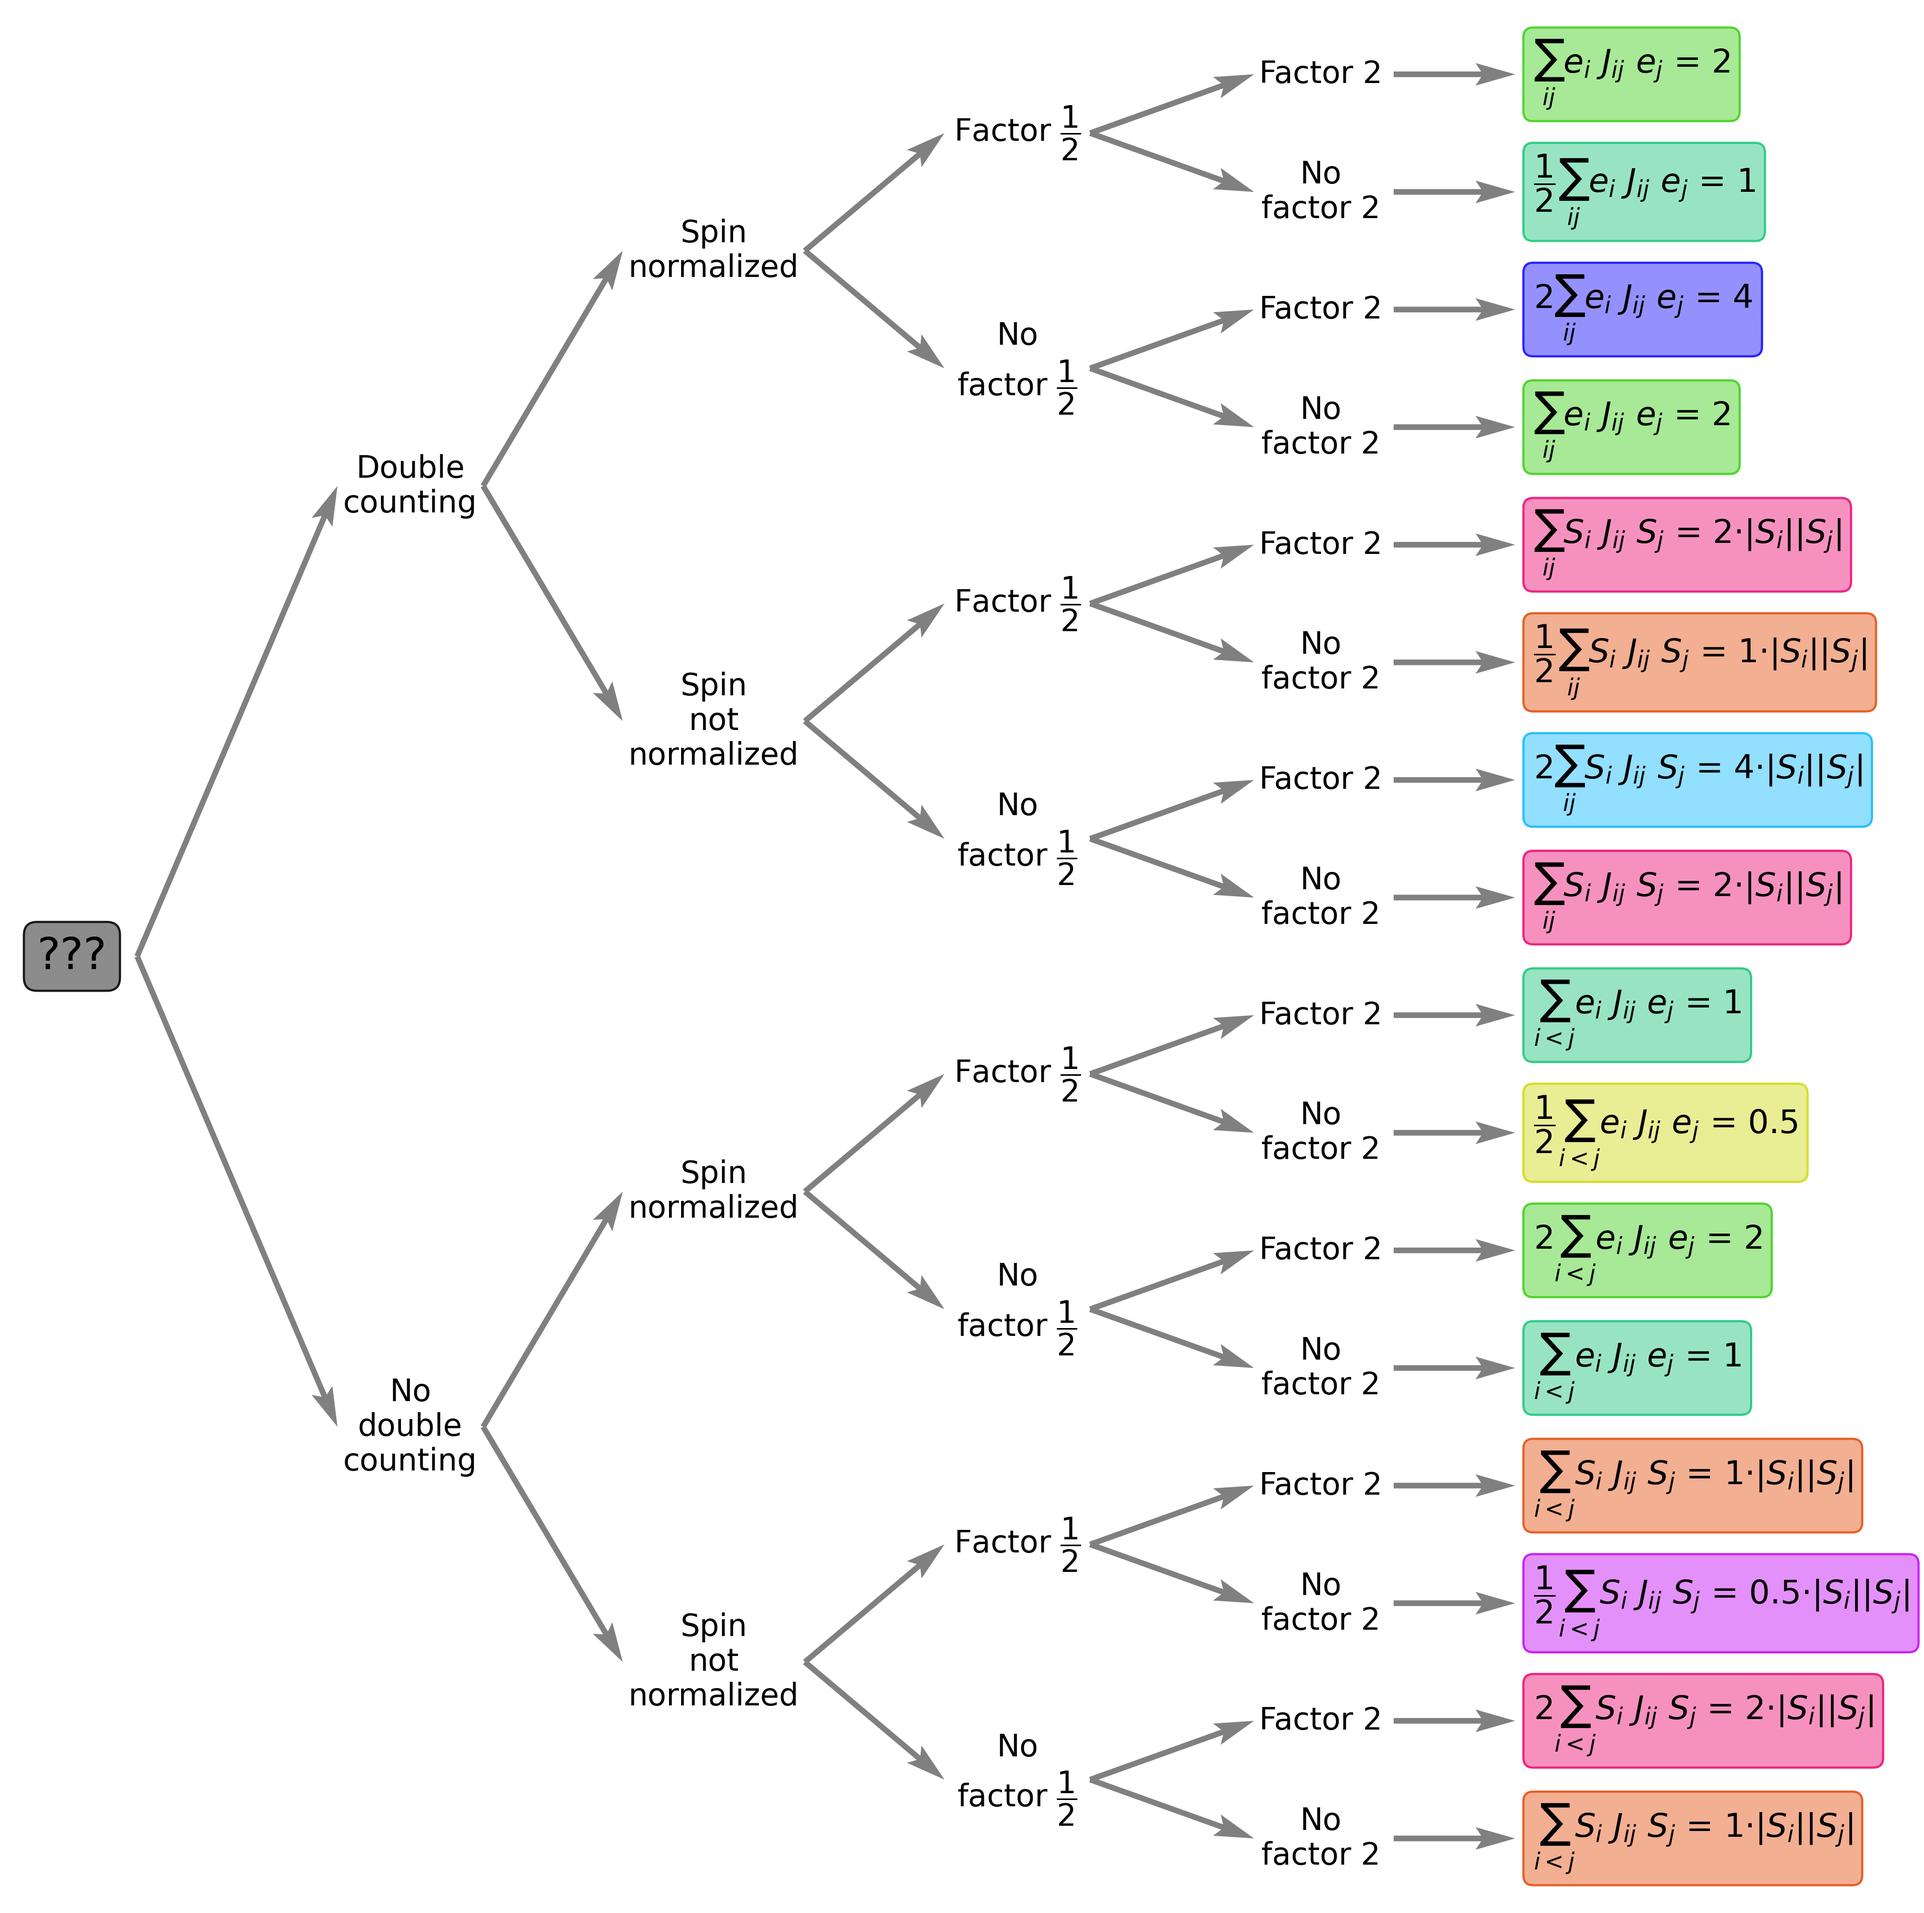
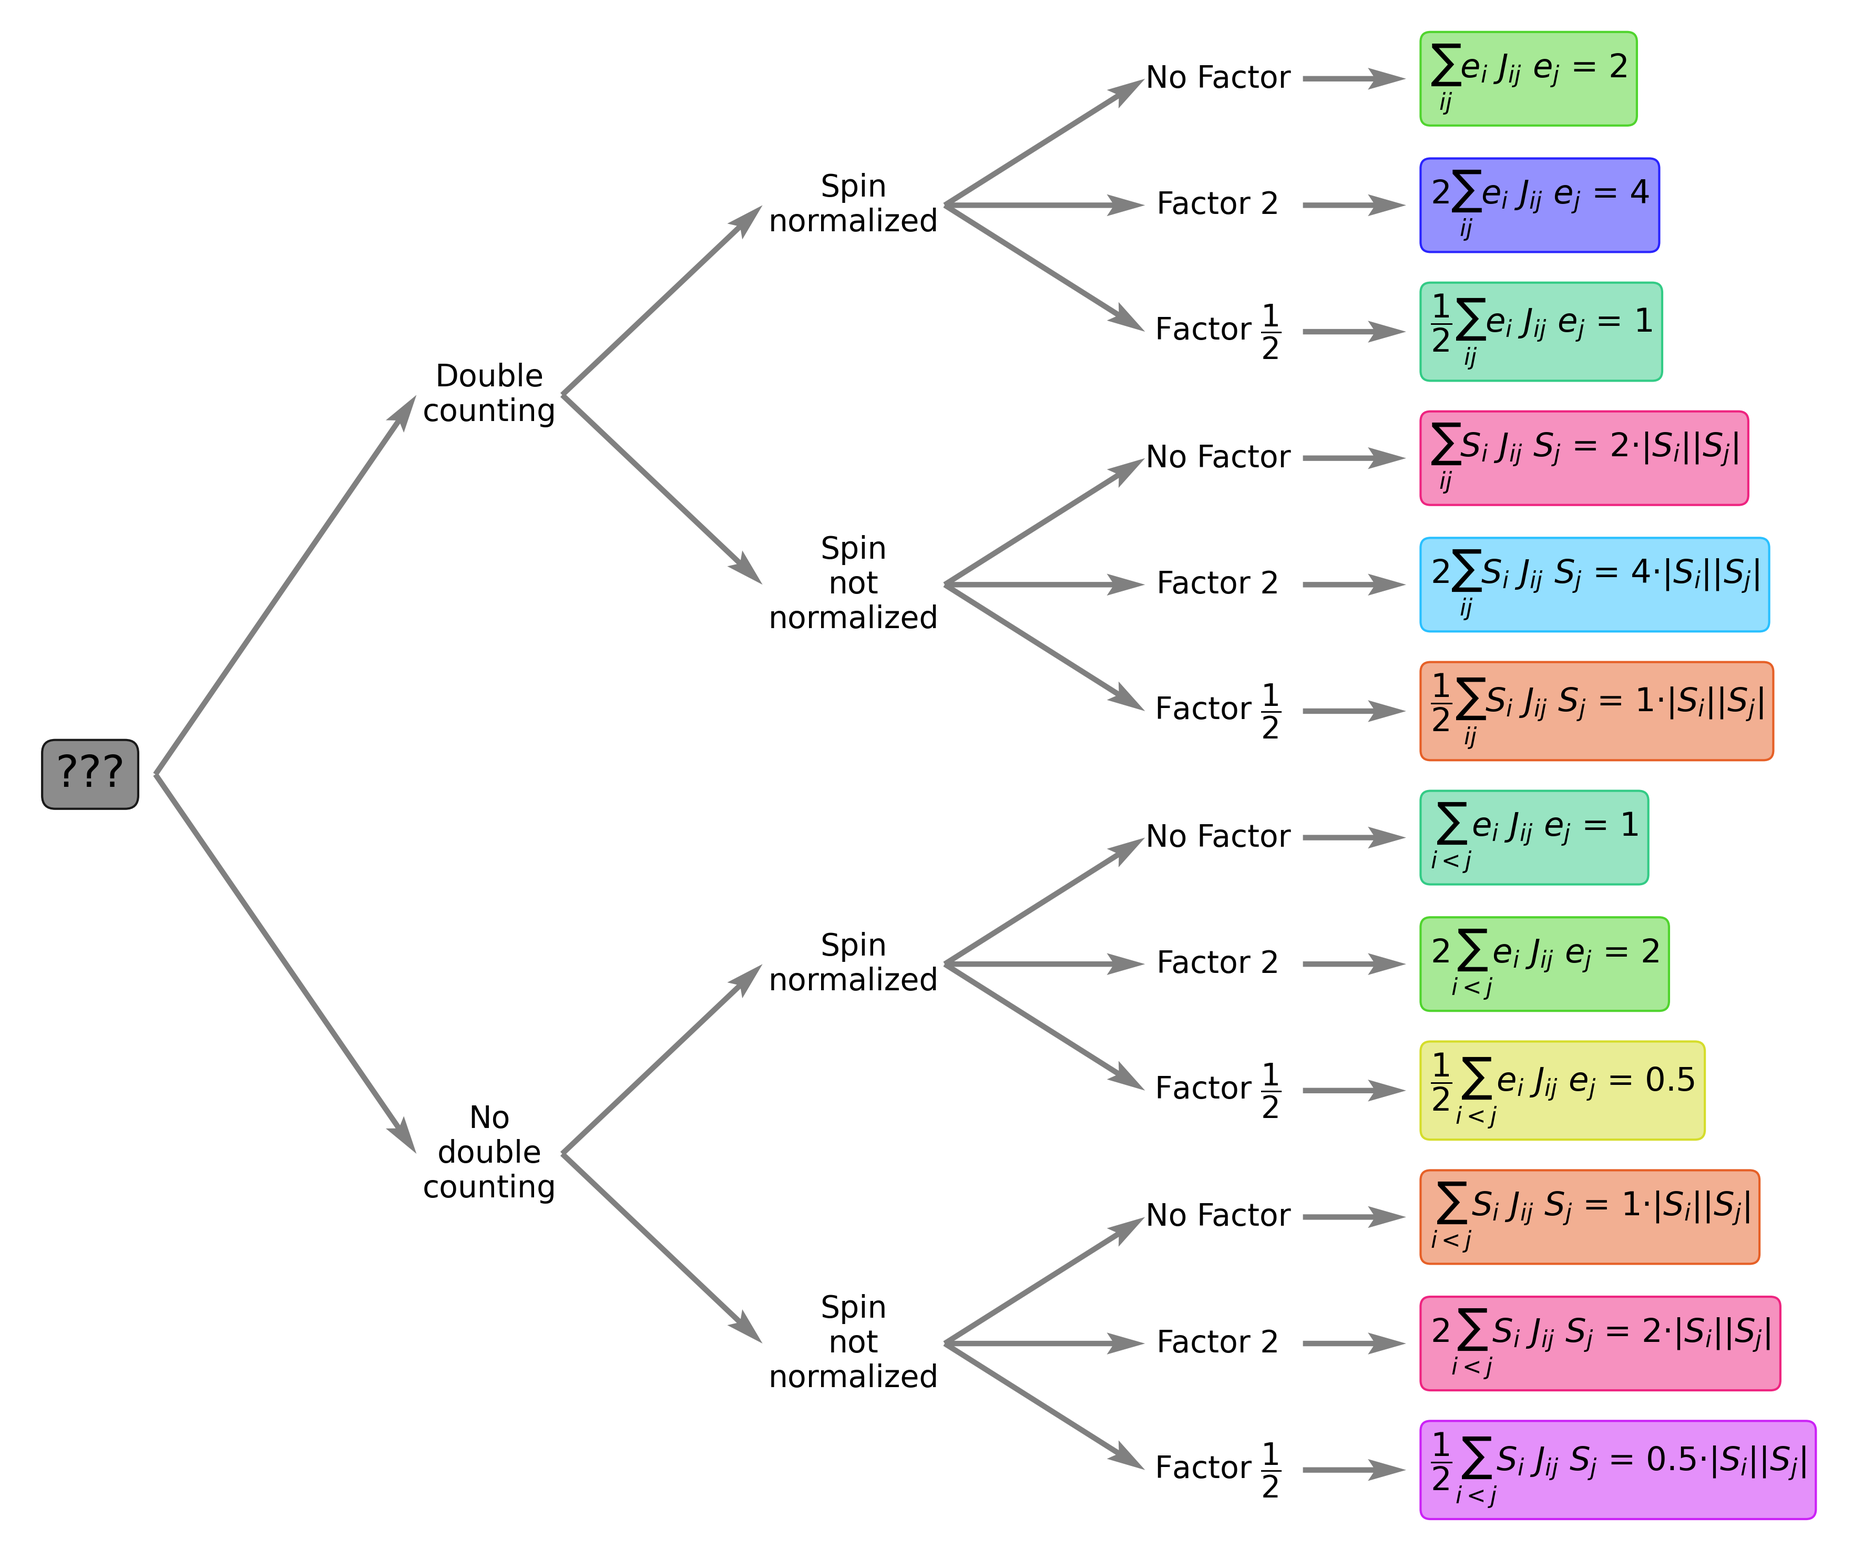
Upgrade notation tree

diff --git a/tools/plot-notation.py b/tools/plot-notation.py
@@ -28,13 +28,15 @@ def plot_notation():
         color="grey",
     )
     text_style = dict(va="center", ha="center", fontsize=14)
-    delta = 5
-    ylim = (0, 31)
-    xlim = (0.7 * delta, 6.9 * delta)
+    delta = 6
+    yrange = 25
+    ylim = (0, yrange)
+    xlim = (0.7 * delta, 5.7 * delta)
+    factor_message = ["Factor $\dfrac{1}{2}$", "Factor 2", "No Factor"]
     fig, ax = plt.subplots(figsize=(xlim[1] / 2, ylim[1] / 2))
     ax.text(
         delta,
-        31 / 2,
+        yrange / 2,
         "???",
         va="center",
         ha="right",
@@ -46,12 +48,18 @@ def plot_notation():
         ),
     )
     for dcount in range(2):
-        dcount_pos = 31 / 4 * (1 + 2 * dcount)
+        dcount_pos = yrange / 4 * (1 + 2 * dcount)
         message = "Double\ncounting" if dcount else "No\ndouble\ncounting"
         ax.text(2 * delta, dcount_pos, message, **text_style)
-        ax.quiver(delta + 0.5, 31 / 2, delta - 1.7, dcount_pos - 31 / 2, **quiver_style)
+        ax.quiver(
+            delta + 0.5,
+            yrange / 2,
+            delta - 1.7,
+            dcount_pos - yrange / 2,
+            **quiver_style,
+        )
         for snorm in range(2):
-            snorm_pos = 31 / 8 * (1 + 4 * dcount + 2 * snorm)
+            snorm_pos = yrange / 8 * (1 + 4 * dcount + 2 * snorm)
             message = "Spin\nnormalized" if snorm else "Spin\nnot\nnormalized"
             ax.text(3 * delta, snorm_pos, message, **text_style)
             ax.quiver(
@@ -61,73 +69,68 @@ def plot_notation():
                 dcount_pos - snorm_pos,
                 **quiver_style,
             )
-            for onehalf in range(2):
-                onehalf_pos = 31 / 16 * (1 + 8 * dcount + 4 * snorm + 2 * onehalf)
+            for factor in range(3):
+                factor_pos = yrange / 24 * (1 + 12 * dcount + 6 * snorm + 2 * factor)
+
                 message = (
-                    "Factor $\dfrac{1}{2}$" if onehalf else "No\nfactor $\dfrac{1}{2}$"
+                    "Factor $\dfrac{1}{2}$"
+                    if factor
+                    else 1
+                    if 1
+                    else "No\nfactor $\dfrac{1}{2}$"
                 )
-                ax.text(4 * delta, onehalf_pos, message, **text_style)
+                ax.text(4 * delta, factor_pos, factor_message[factor], **text_style)
                 ax.quiver(
                     3 * delta + 1.5,
                     snorm_pos,
                     delta - 2.7,
-                    snorm_pos - onehalf_pos,
+                    snorm_pos - factor_pos,
                     **quiver_style,
                 )
-                for two in range(2):
-                    two_pos = (
-                        31 / 32 * (1 + 16 * dcount + 8 * snorm + 4 * onehalf + 2 * two)
-                    )
-                    message = "Factor 2" if two else "No\nfactor 2"
-                    ax.text(5 * delta, two_pos, message, **text_style)
-                    ax.quiver(
-                        4 * delta + 1.2,
-                        onehalf_pos,
-                        delta - 2.3,
-                        onehalf_pos - two_pos,
-                        **quiver_style,
-                    )
-
-                    ax.quiver(5 * delta + 1.2, two_pos, 2, 0, **quiver_style)
-                    hamiltonian = ""
-                    energy = 1.0
-                    if two and not onehalf:
-                        hamiltonian += "2"
-                        energy *= 2
-                    if onehalf and not two:
-                        hamiltonian += "$\dfrac{1}{2}$"
-                        energy *= 0.5
-                    if dcount:
-                        hamiltonian += "$\sum_{ij}$"
-                        energy *= 2
-                    else:
-                        hamiltonian += "$\sum_{i<j}$"
-                    if int(energy) != energy:
-                        energy = f"{energy}"
-                    else:
-                        energy = f"{energy:.0f}"
-                    if snorm:
-                        hamiltonian += "$e_i\ J_{ij}\ e_j$"
-                        conv_factor = f"{energy}"
-                    else:
-                        hamiltonian += "$S_i\ J_{ij}\ S_j$"
-                        conv_factor = (
-                            f"{energy}" + R"$\cdot\vert S_i\vert \vert S_j\vert$"
-                        )
-                    hamiltonian += f" = {conv_factor}"
-                    ax.text(
-                        5 * delta + 3.5,
-                        two_pos,
-                        hamiltonian,
-                        va="center",
-                        ha="left",
-                        fontsize=15,
-                        bbox=dict(
-                            boxstyle="round",
-                            ec=(*colors[conv_factor], 1),
-                            fc=(*colors[conv_factor], 0.5),
-                        ),
-                    )
+                hamiltonian = ""
+                energy = 1.0
+                if factor == 0:
+                    hamiltonian += "$\dfrac{1}{2}$"
+                    energy *= 0.5
+                if factor == 1:
+                    hamiltonian += "2"
+                    energy *= 2
+                if dcount:
+                    hamiltonian += "$\sum_{ij}$"
+                    energy *= 2
+                else:
+                    hamiltonian += "$\sum_{i<j}$"
+                if int(energy) != energy:
+                    energy = f"{energy}"
+                else:
+                    energy = f"{energy:.0f}"
+                if snorm:
+                    hamiltonian += "$e_i\ J_{ij}\ e_j$"
+                    conv_factor = f"{energy}"
+                else:
+                    hamiltonian += "$S_i\ J_{ij}\ S_j$"
+                    conv_factor = f"{energy}" + R"$\cdot\vert S_i\vert \vert S_j\vert$"
+                hamiltonian += f" = {conv_factor}"
+                ax.text(
+                    4 * delta + 3.5,
+                    factor_pos,
+                    hamiltonian,
+                    va="center",
+                    ha="left",
+                    fontsize=15,
+                    bbox=dict(
+                        boxstyle="round",
+                        ec=(*colors[conv_factor], 1),
+                        fc=(*colors[conv_factor], 0.5),
+                    ),
+                )
+                ax.quiver(
+                    4 * delta + 1.4,
+                    factor_pos,
+                    1.7,
+                    0,
+                    **quiver_style,
+                )
 
     ax.set_ylim(*ylim)
     ax.set_xlim(*xlim)
